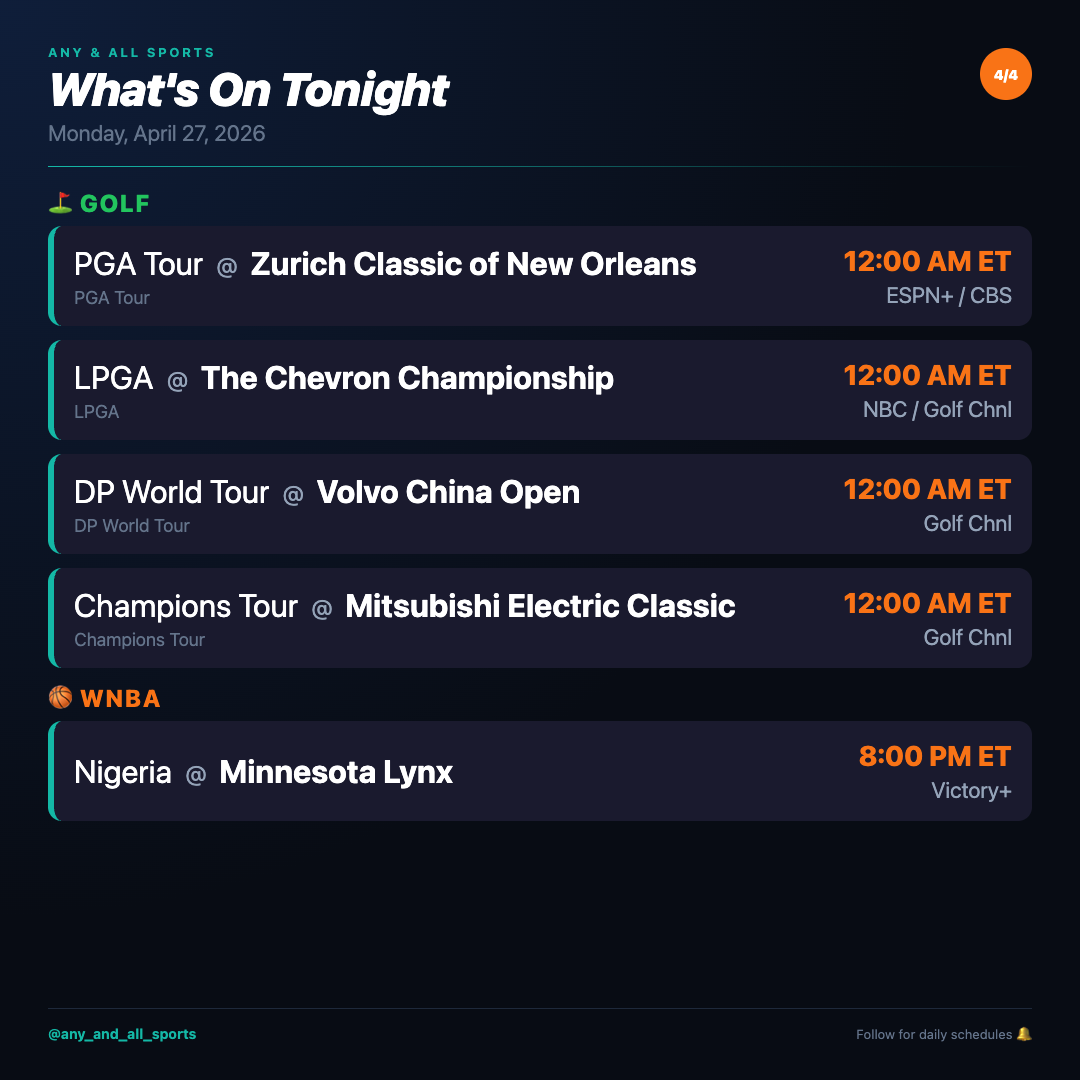
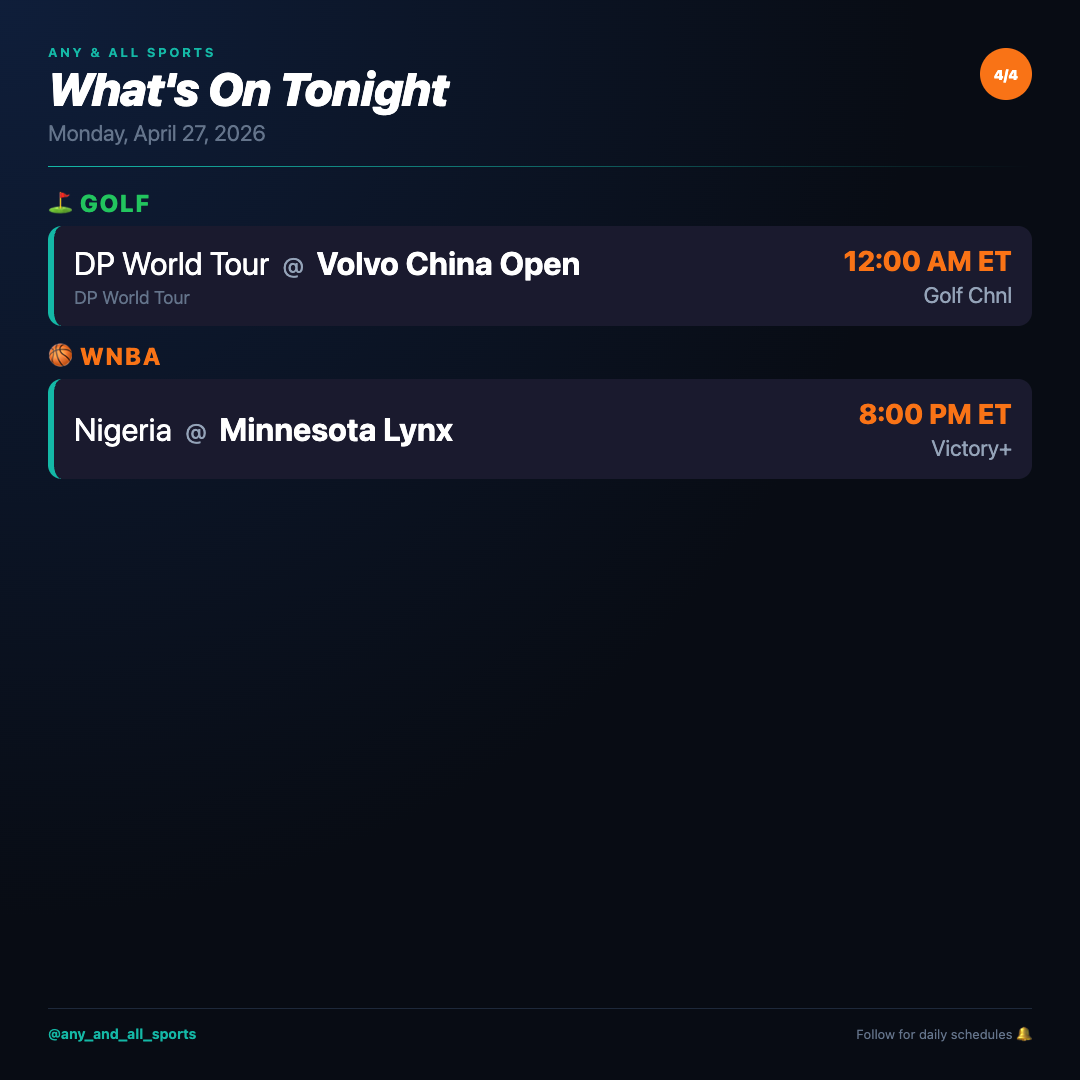
fix: filter final/completed games from schedule and social posts

Changed region(s): [[0.0306, 0.2139, 0.9778, 0.7639]]

diff --git a/components/PersonalizedSchedule.tsx b/components/PersonalizedSchedule.tsx
@@ -19,6 +19,9 @@ export default function PersonalizedSchedule({ schedule }: PersonalizedScheduleP
     }
 
     const filteredGames = schedule.games.filter((game: Game) => {
+      // Filter out completed games
+      if (game.status === 'final' || game.status === 'completed') return false;
+
       // Check if sport matches
       const sportMatches = preferences.sports.length === 0 || preferences.sports.includes(game.sport);
       if (!sportMatches) return false;

diff --git a/app/api/schedule/route.ts b/app/api/schedule/route.ts
@@ -17,7 +17,10 @@ export async function GET(request: NextRequest) {
     );
   }
 
-  let filteredGames = schedule.games;
+  // Filter out completed games for today's schedule
+  let filteredGames = schedule.games.filter((game: Game) =>
+    game.status !== 'final' && game.status !== 'completed'
+  );
 
   // Filter by sport (case-insensitive)
   if (sport) {
